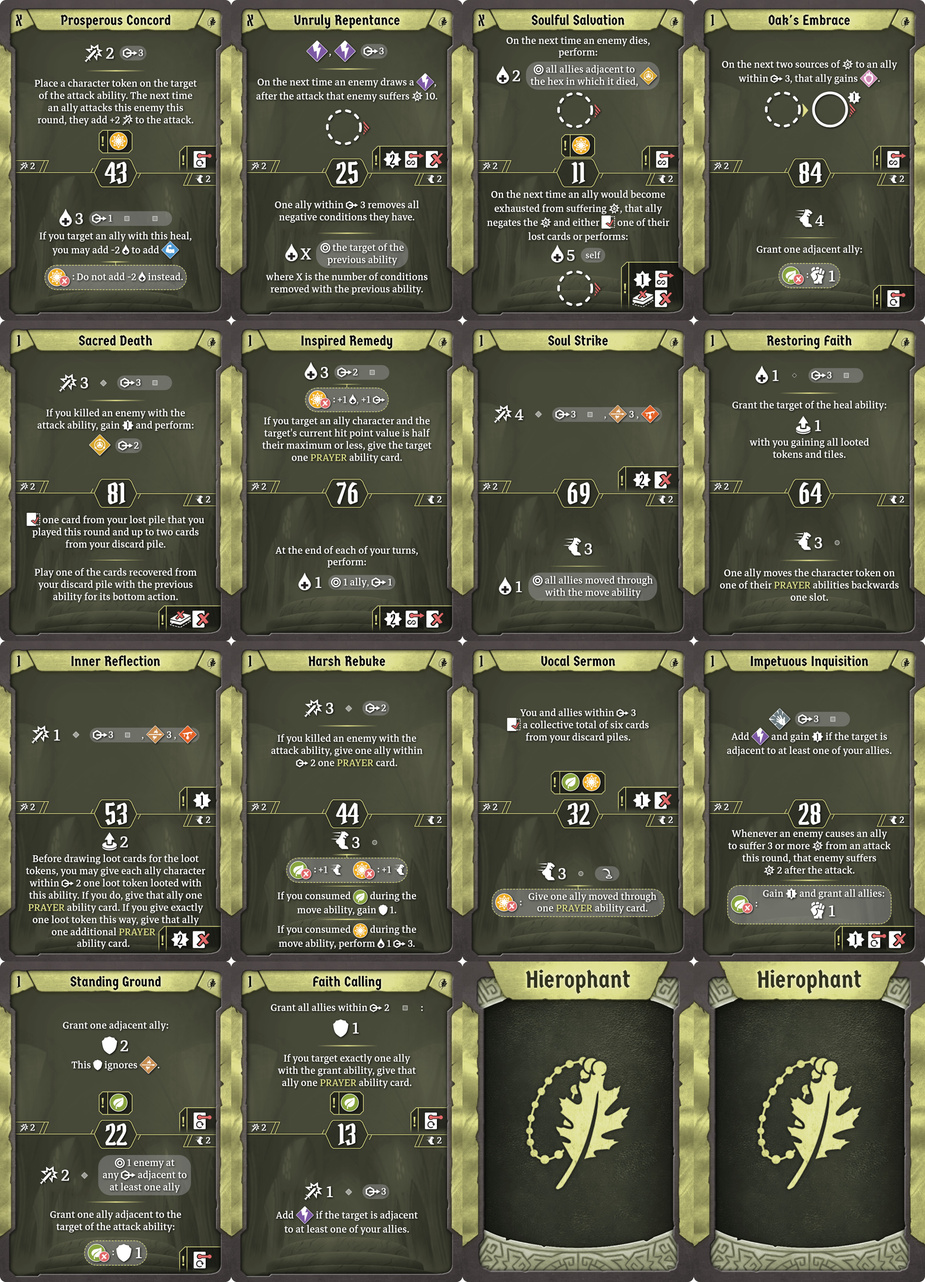
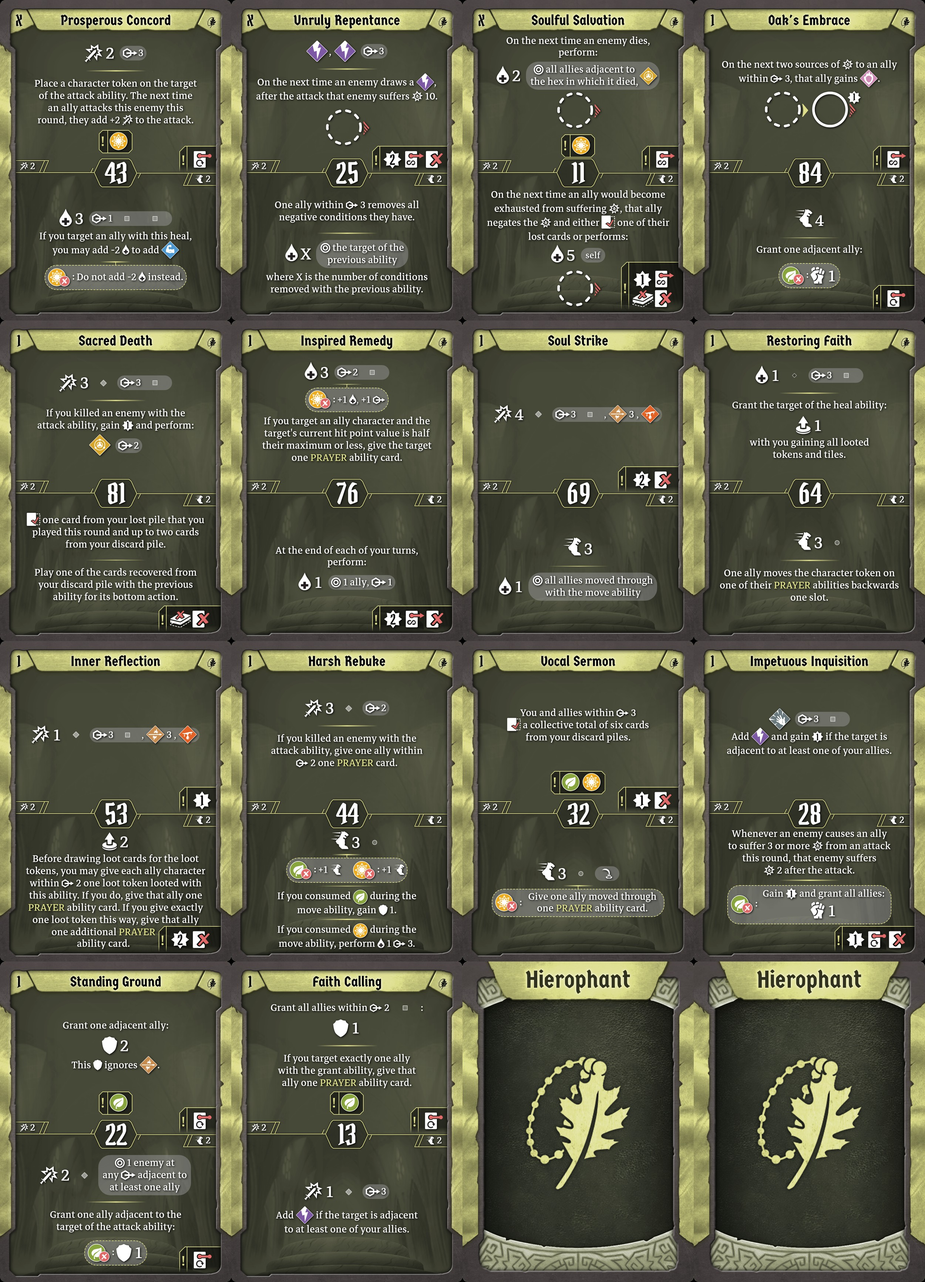
New spreads and fix more slots

diff --git a/Game/Content/Classes/Hierophant/Cards/Prayers/04_Meditation.cs b/Game/Content/Classes/Hierophant/Cards/Prayers/04_Meditation.cs
@@ -32,7 +32,7 @@ public class Meditation : HierophantPrayerCardModel<Meditation.CardTop, Meditati
 						await GDTask.CompletedTask;
 					}
 				)
-				.WithUseSlot(new UseSlot(new Vector2(0.48850015f, 0.29350019f)))
+				.WithUseSlot(new UseSlot(new Vector2(0.48850015f, 0.2990001f)))
 				.Build())
 		];
 
@@ -64,7 +64,7 @@ public class Meditation : HierophantPrayerCardModel<Meditation.CardTop, Meditati
 						await GDTask.CompletedTask;
 					}
 				)
-				.WithUseSlot(new UseSlot(new Vector2(0.48850015f, 0.7730004f)))
+				.WithUseSlot(new UseSlot(new Vector2(0.48850015f, 0.7785105f)))
 				.Build())
 		];
 

diff --git a/Game/Content/Classes/Hierophant/Cards/Prayers/05_Ordination.cs b/Game/Content/Classes/Hierophant/Cards/Prayers/05_Ordination.cs
@@ -73,8 +73,8 @@ public class Ordination : HierophantPrayerCardModel<Ordination.CardTop, Ordinati
 				)
 				.WithUseSlots(
 					[
-						new UseSlot(new Vector2(0.38550016f, 0.7950113f)),
-						new UseSlot(new Vector2(0.5900029f, 0.7950113f))
+						new UseSlot(new Vector2(0.38550016f, 0.7865109f)),
+						new UseSlot(new Vector2(0.5900029f, 0.7865109f))
 					]
 				)
 				.Build())

diff --git a/Game/Content/Classes/Hierophant/Cards/Prayers/06_Penitence.cs b/Game/Content/Classes/Hierophant/Cards/Prayers/06_Penitence.cs
@@ -38,8 +38,8 @@ public class Penitence : HierophantPrayerCardModel<Penitence.CardTop, Penitence.
 				)
 				.WithUseSlots(
 					[
-						new UseSlot(new Vector2(0.38450018f, 0.3129999f)),
-						new UseSlot(new Vector2(0.5899994f, 0.3124999f))
+						new UseSlot(new Vector2(0.38450018f, 0.3065f)),
+						new UseSlot(new Vector2(0.5899994f, 0.3065f))
 					]
 				)
 				.Build())

diff --git a/Game/Content/Classes/Hierophant/Cards/Prayers/01_Devotion.cs b/Game/Content/Classes/Hierophant/Cards/Prayers/01_Devotion.cs
@@ -55,8 +55,8 @@ public class Devotion : HierophantPrayerCardModel<Devotion.CardTop, Devotion.Car
 				)
 				.WithUseSlots(
 					[
-						new UseSlot(new Vector2(0.398f, 0.296f)),
-						new UseSlot(new Vector2(0.603f, 0.296f))
+						new UseSlot(new Vector2(0.3835002f, 0.2875001f)),
+						new UseSlot(new Vector2(0.5855027f, 0.2875001f))
 					]
 				)
 				.Build())

diff --git a/Game/Content/Classes/Hierophant/Cards/Prayers/00_Aspiration.cs b/Game/Content/Classes/Hierophant/Cards/Prayers/00_Aspiration.cs
@@ -85,7 +85,7 @@ public class Aspiration : HierophantPrayerCardModel<Aspiration.CardTop, Aspirati
 						await GDTask.CompletedTask;
 					}
 				)
-				.WithUseSlot(new UseSlot(new Vector2(0.4855002f, 0.79300135f)))
+				.WithUseSlot(new UseSlot(new Vector2(0.4855002f, 0.78900117f)))
 				.Build())
 		];
 
